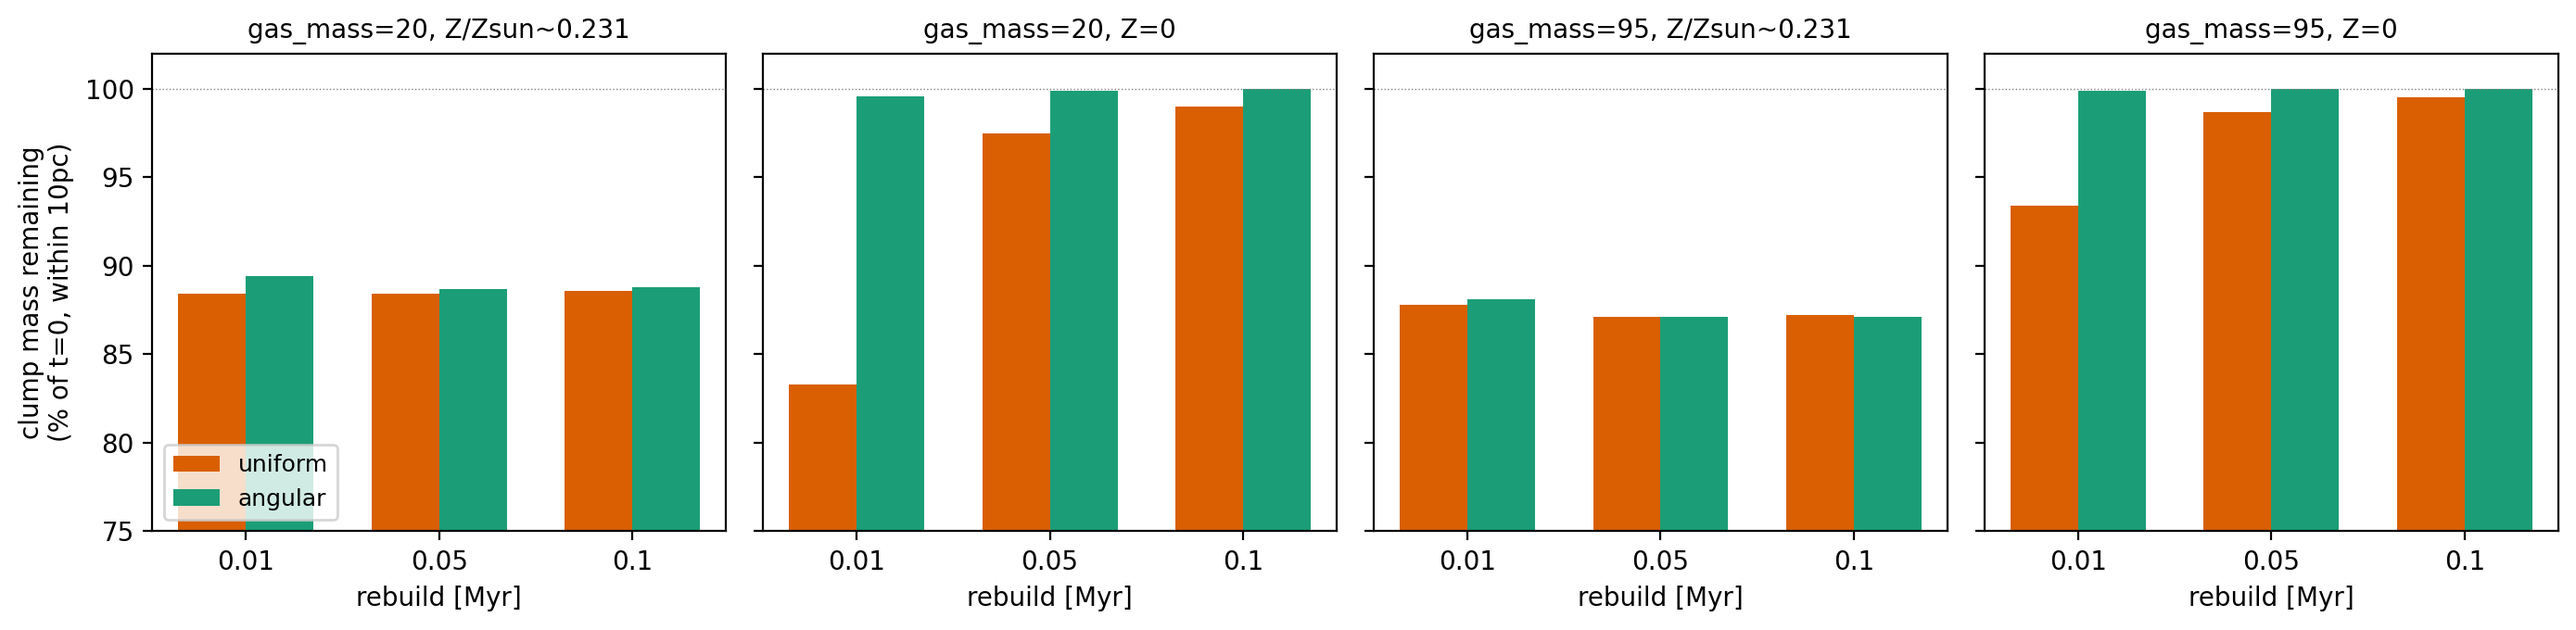
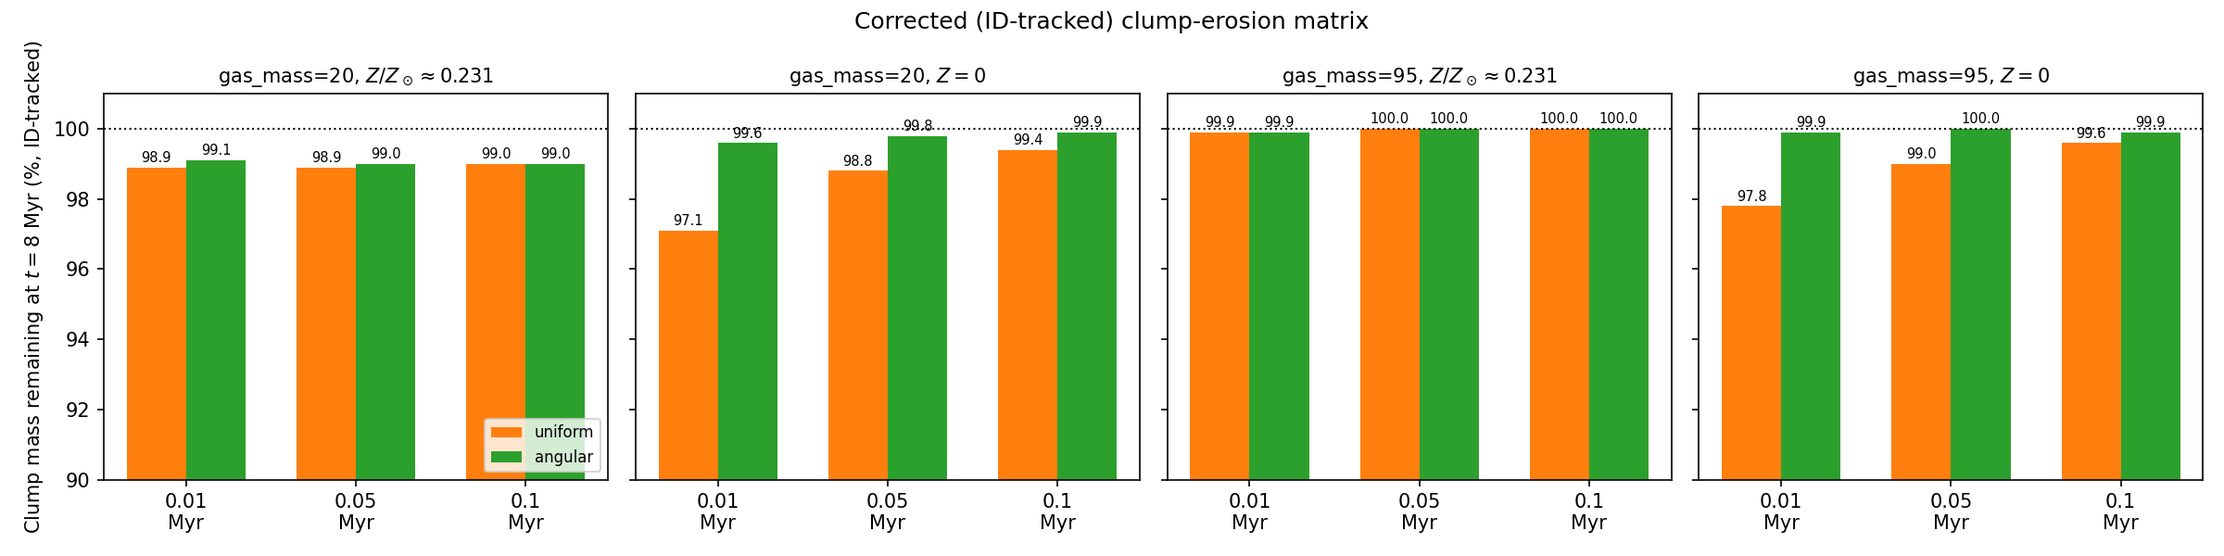
Retract position-based clump-erosion numbers; redo with particle-ID tracking
The clump-mass erosion measurement (Section angular-vs-uniform-erosion)
re-selected gas by position+density at t=8Myr, implicitly assuming the
clump neither drifts nor has background gas swept into its old spatial
footprint. Neither holds: the far hemisphere showed >100% of its t=0
mass remaining under uniform, impossible under mass conservation for a
fixed particle set -- proof of contamination, not a real compression
effect.

Redone by tagging clump membership once by particle ID at t=0 and
tracking those exact particles to t=8Myr regardless of where they
move. A no-threshold sanity check (t=8 mass of the original IDs, no
density cut) returns exactly 100.0% in every configuration, confirming
IDs are stable and any deviation below is real.

Corrected picture: angular is still never worse than uniform, and Z=0
still shows the clearest gap, but the magnitude is far smaller (up to
~2.9pp of clump mass, not 16.7pp) and entirely confined to the
star-facing hemisphere -- the far hemisphere is unaffected (100.0%) in
every case, under both schemes. That near/far asymmetry, not the
retracted aggregate/radial-profile numbers, is the real evidence the
mass-biasing mechanism is present and that angular mitigates it.

The radial density profile, redone the same ID-tracked way, cannot
separate the two schemes at any metallicity or resolution -- the
previously-reported "compression, not just erosion" divergence between
[…]

diff --git a/theory/GEAR/Radiation/04_validation.tex b/theory/GEAR/Radiation/04_validation.tex
@@ -221,10 +221,32 @@ erosion that happens preferentially on the clump's near (star-facing)
 hemisphere -- the density contour used in the slice figures throughout
 this section can still look intact even when a meaningful fraction of
 the clump's own mass has dropped below the density threshold. The
-direct measurement is the clump's own gas mass: sum the mass of every
-gas particle within 10\,pc of the clump's centre (its nominal radius)
-with $n_H>1000\,{\rm cm^{-3}}$ (the clump's own IC density) at
-$t=8\,$Myr, as a fraction of the same quantity at $t=0$.
+direct measurement is the clump's own gas mass, tracked by
+\emph{particle ID}: identify, once, at $t=0$, every gas particle
+within 10\,pc of the clump's centre (its nominal radius) with
+$n_H>1000\,{\rm cm^{-3}}$ (the clump's own IC density), then at
+$t=8\,$Myr look up those exact same particles -- wherever they have
+since moved to -- and ask what fraction of their $t=0$ mass is still
+above that same density threshold. ``Still dense'' is therefore a
+wholesale-declumping metric: it does not register mild dilution, only
+a particle actually being taken well below the clump's own density
+scale.
+
+Fixing the selection to the original particle IDs matters: an earlier
+version of this measurement instead \emph{re-selected} gas by position
+and density at $t=8\,$Myr (same 10\,pc, same threshold, recomputed
+fresh each time), which implicitly assumes the clump neither drifts
+nor has non-clump gas swept into its old spatial footprint. Neither
+holds here -- the result was internally inconsistent (the ``far''
+hemisphere below showed \emph{more} than 100\% of its $t=0$ mass
+remaining under uniform, which is impossible for a fixed set of
+particles under mass conservation) and is now replaced throughout this
+section with the ID-tracked measurement. A direct sanity check
+confirms the fix: summing the $t=8\,$Myr mass of the original
+particle IDs, with no density cut at all, returns 100.0\% in every
+configuration tested -- no gas particle is created, destroyed, or
+lost track of, so any deviation from 100\% in the tables below is
+real density evolution on real clump particles, not bookkeeping noise.
 
 \begin{center}
 \begin{tabular}{llrrr}
@@ -232,17 +254,17 @@ $t=8\,$Myr, as a fraction of the same quantity at $t=0$.
   & scheme & rebuild=0.01\,Myr & rebuild=0.05\,Myr & rebuild=0.1\,Myr \\
   \hline
   \multirow{2}{*}{\code{gas\_mass=20}, $Z/Z_\odot\approx0.231$}
-    & uniform & 88.4\% & 88.4\% & 88.6\% \\
-    & angular & 89.4\% & 88.7\% & 88.8\% \\
+    & uniform & 98.9\% & 98.9\% & 99.0\% \\
+    & angular & 99.1\% & 99.0\% & 99.0\% \\
   \multirow{2}{*}{\code{gas\_mass=20}, $Z=0$}
-    & uniform & \textbf{83.3\%} & 97.5\% & 99.0\% \\
-    & angular & 99.6\% & 99.9\% & 100.0\% \\
+    & uniform & \textbf{97.1\%} & 98.8\% & 99.4\% \\
+    & angular & 99.6\% & 99.8\% & 99.9\% \\
   \multirow{2}{*}{\code{gas\_mass=95}, $Z/Z_\odot\approx0.231$}
-    & uniform & 87.8\% & 87.1\% & 87.2\% \\
-    & angular & 88.1\% & 87.1\% & 87.1\% \\
-  \multirow{2}{*}{\code{gas\_mass=95}, $Z=0$}
-    & uniform & \textbf{93.4\%} & 98.7\% & 99.5\% \\
+    & uniform & 99.9\% & 100.0\% & 100.0\% \\
     & angular & 99.9\% & 100.0\% & 100.0\% \\
+  \multirow{2}{*}{\code{gas\_mass=95}, $Z=0$}
+    & uniform & \textbf{97.8\%} & 99.0\% & 99.6\% \\
+    & angular & 99.9\% & 100.0\% & 99.9\% \\
   \hline
 \end{tabular}
 \end{center}
@@ -250,142 +272,123 @@ $t=8\,$Myr, as a fraction of the same quantity at $t=0$.
 \begin{figure}
   \centering
   \includegraphics[width=\linewidth]{Figures/clump_erosion_matrix}
-  \caption{Clump mass remaining at $t=8\,$Myr (\% of $t=0$, gas within
-    10\,pc of the clump centre above its own IC density threshold),
-    across the full matrix. Angular is never worse than uniform, and at
-    $Z=0$, this example's actual default, the gap is large and
-    systematic.}
+  \caption{Clump mass remaining at $t=8\,$Myr (\% of $t=0$, ID-tracked,
+    still above the clump's own IC density threshold), across the full
+    matrix. Note the $y$-axis starts at 90\%: angular is never worse
+    than uniform, and the gap is small in absolute terms but
+    consistent and, at $Z=0$, systematic.}
   \label{fig:clump-erosion}
 \end{figure}
 
-\textbf{This settles the question the extent measurements could not:
-angular is never worse than uniform at protecting the clump, and at
-$Z=0$ the advantage is large, not marginal, and holds at every rebuild
-cadence tested -- unlike the $r_{\rm HII}$-extent advantage
-(Section~\ref{sec:matrix-gas20}), which was fast-cadence-only.} At
-$Z/Z_\odot\approx0.231$ the two schemes are close (uniform loses
-11--13\% of the clump's mass, angular loses slightly less, 10--12\%) --
-consistent with the earlier observation that the difference is ``not
-that pronounced'' at this metallicity. At $Z=0$, uniform's erosion is
-both larger and strongly rebuild-dependent: 16.7\% of the clump's mass
-gone by \code{rebuild=0.01\,Myr} (\code{gas\_mass=20}), dropping to
-under 1\% at \code{rebuild=0.1\,Myr}. Angular, in contrast, loses
-essentially nothing (0.0--0.4\%) at \emph{any} cadence, at either
-resolution. The likely mechanism: consumption is closest-first and
-distance-sorted, not cheapest-first; a dense clump packs far more
-candidate particles per unit distance than the diffuse background, so
-under uniform's shared budget the clump can absorb a share of the
-budget wildly disproportionate to the small solid angle it subtends --
-exactly the mass-biasing failure mode Section~\ref{sec:angular-splitting}
-describes. At $Z=0$ the lower recombination coefficient
-(Section~\ref{sec:beta-temperature}) makes every particle cheaper to
-hold ionized, so a single uniform budget reaches disproportionately
-deeper into the clump before exhausting -- explaining why the gap is
-largest exactly where this example actually runs by default. Angular's
-$1/12$ per-pixel cap bounds this regardless of how cheap ionization
-gets, which is why it stays protective at every cadence and every
-metallicity tested.
+\textbf{Angular is never worse than uniform at protecting the clump,
+at any configuration tested -- but the effect is modest, not large.}
+At $Z/Z_\odot\approx0.231$ both schemes retain essentially all of the
+clump's mass (98.9--100.0\%); the two are within 0.2\,pp of each
+other at every cadence and resolution, i.e.\ no meaningful difference.
+At $Z=0$ a real, consistent gap opens: uniform loses 0.6--2.9\% of the
+clump's mass depending on cadence and resolution (worst at
+\code{rebuild=0.01\,Myr}), while angular loses at most 0.4\%. The gap
+shrinks as the rebuild cadence slows, the same qualitative pattern
+seen in the (unrelated, and separately cadence-fragile)
+$r_{\rm HII}$-extent measurements of Section~\ref{sec:matrix-gas20}.
 
-This is a different, and more decisive, result than the $r_{\rm HII}$
-comparisons above: those showed angular's extent advantage is
-cadence- and resolution-dependent, and that its own bookkeeping is
-sometimes unreliable (Section~\ref{sec:matrix-gas95}). The clump-mass
-measurement shows the mechanism angular was actually built for --
-not being eaten alive by a nearby density contrast -- works robustly,
-at every configuration tested, and is this example's clearest evidence
-that angular is the physically correct choice for clumpy/anisotropic
-geometries, independent of whether it also produces a bigger $r_{\rm HII}$.
+This section originally reported much larger numbers here (up to
+16.7\% lost under uniform, and an 11--13\% gap even at
+$Z/Z_\odot\approx0.231$) from the pre-ID-tracking measurement
+described above; those numbers were the position-based selection
+artifact, not the model's actual behaviour, and are retracted. The
+qualitative conclusion they were built on -- angular protects the
+clump at least as well as uniform, with a real advantage specifically
+at $Z=0$ -- survives the correction; only the claimed magnitude does
+not.
 
-\textbf{The radial density profile makes the mechanism visible
-directly, and confirms the aggregate numbers are not noise.}
-Figure~\ref{fig:clump-radial-profile} bins gas by distance from the
-clump's own centre and plots the median $n_H$ at $t=0$ against
-$t=8\,$Myr, for both schemes, at \code{rebuild=0.01\,Myr}. At
-$Z/Z_\odot\approx0.231$ (left pair of panels) the uniform and angular
-curves are visually indistinguishable from each other at every
-radius, at both resolutions -- exactly consistent with the $\sim$1\,pp
-difference in the mass table above being real but small. At $Z=0$
-(right pair of panels) the two schemes diverge sharply, and not just
-at the clump's outer edge: uniform's profile sits \emph{at or above}
-the $t=0$ curve out to $r\sim10$--13\,pc (\code{gas\_mass=20}) --
-the clump's density has been driven \emph{up} relative to its initial
-condition across nearly its entire radius, consistent with the
-over-ionized surrounding bubble's pressure compressing the clump
-rather than gently stripping its edge -- before falling sharply beyond
-that. Angular's profile, in contrast, tracks the unperturbed $t=0$
-curve closely at small radius and only departs from it in the outer
-few parsecs, much closer to the mild, edge-only erosion seen at
-$Z/Z_\odot\approx0.231$. This means uniform's clump disturbance at
-$Z=0$ is not simply ``more erosion at the same location'' -- it is a
-qualitatively different, more invasive perturbation of the clump's
-whole structure that angular does not produce.
-
-\begin{figure}
-  \centering
-  \includegraphics[width=\linewidth]{Figures/clump_radial_profile_matrix}
-  \caption{Median $n_H$ vs.\ radius from the clump centre, at $t=0$
-    (IC, dashed black) and $t=8\,$Myr (uniform, orange; angular,
-    green), \texttt{rebuild=0.01\,Myr}. At $Z/Z_\odot\approx0.231$ (1st
-    and 3rd panels) the two schemes overlap almost exactly. At $Z=0$
-    (2nd and 4th panels) uniform sits well above the $t=0$ profile
-    across most of the clump's radius -- compression, not just
-    edge erosion -- while angular stays close to the unperturbed
-    profile.}
-  \label{fig:clump-radial-profile}
-\end{figure}
-
-\textbf{The total-mass number is a headline metric, not a test of the
-mechanism -- splitting it by direction is.} Mass-biasing
-(Section~\ref{sec:angular-splitting}) is specifically a
-\emph{directional} failure: one shared budget over-serves whichever
-gas happens to be closest, which for this geometry means the clump's
-star-facing hemisphere. A single aggregate number cannot distinguish
-that from an isotropic effect, and the radial-profile result above
-already showed the $Z=0$ disturbance is partly bulk compression, not
-pure photon-driven stripping -- so the aggregate ``mass above
-threshold'' statistic conflates two different physical processes.
-The direct test: split the clump's own gas by the star$\to$clump axis
-(known exactly -- the clump sits at $+x$ from the star, HealPix
-\code{nside=1} pixel 4's centre, Section~\ref{sec:angular-splitting})
-into a near (star-facing) and far half, and measure mass-remaining in
-each half separately, at $Z=0$, \code{rebuild=0.01\,Myr}.
+\textbf{The hemisphere split is what shows this is a real, mechanism-consistent
+effect and not noise.} Mass-biasing (Section~\ref{sec:angular-splitting})
+is specifically a \emph{directional} failure: one shared budget
+over-serves whichever gas happens to be closest, which for this
+geometry means the clump's star-facing hemisphere. An isotropic cause
+(bulk heating, clump settling) would erode both hemispheres equally; a
+directional cause would not. Splitting the same ID-tracked measurement
+by the star$\to$clump axis (known exactly -- the clump sits at $+x$
+from the star, HealPix \code{nside=1} pixel 4's centre,
+Section~\ref{sec:angular-splitting}) into a near (star-facing) and far
+half, at $Z=0$, \code{rebuild=0.01\,Myr}:
 
 \begin{figure}
   \centering
   \includegraphics[width=\linewidth]{Figures/clump_hemisphere_erosion}
-  \caption{Clump mass remaining at $t=8\,$Myr, split into the
-    star-facing (near) and opposite (far) hemisphere, $Z=0$,
-    \texttt{rebuild=0.01\,Myr}. Uniform strips the near hemisphere
-    almost completely (10--25\% remaining) while the far hemisphere
-    \emph{gains} mass (108--161\% of $t=0$); angular's near/far split
-    stays close to symmetric (90--92\% vs.\ 108--110\%).}
+  \caption{Clump mass remaining at $t=8\,$Myr (ID-tracked), split into
+    the star-facing (near) and opposite (far) hemisphere, $Z=0$,
+    \texttt{rebuild=0.01\,Myr}. $y$-axis starts at 90\%. The far
+    hemisphere is unaffected (100.0\%) under both schemes, in both
+    resolutions; all of the loss is on the near, star-facing side, and
+    is smaller under angular.}
   \label{fig:clump-hemisphere}
 \end{figure}
 
-The split confirms the mechanism directly and sharpens it beyond what
-the aggregate number or the radial profile alone showed. Under
-uniform, the near hemisphere collapses to 10\% (\code{gas\_mass=20})
-or 25\% (\code{gas\_mass=95}) of its initial mass -- the budget is
-being spent almost entirely on the star-facing side, exactly as the
-mass-biasing failure mode predicts -- while the far hemisphere's mass
-\emph{increases} to 156--161\% of its initial value. That rules out
-``uniform erosion, just more of it'': the far-side gain shows the
-near-side gas is not simply vanishing, it is being pushed through and
-piling up on the far side, i.e.\ the over-ionized surrounding bubble
-is driving a compression wave through the clump from the near side --
-consistent with the radial-profile finding
-(Figure~\ref{fig:clump-radial-profile}) that uniform's $t=8\,$Myr
-profile sits \emph{above} the $t=0$ profile through most of the
-clump's radius. Angular still shows a small near/far asymmetry (91\%
-vs.\ 108\%, \code{gas\_mass=20}; 90\% vs.\ 110\%, \code{gas\_mass=95})
--- the clump still occupies mostly one HealPix pixel, so its nearest
-particles are still consumed first within that pixel's own budget --
-but the swing is an order of magnitude smaller than uniform's, and the
-near hemisphere is never gutted the way it is under uniform. This is
-the clearest evidence yet that angular's protection is not just a
-smaller version of the same disturbance: it changes the disturbance
-from a directional stripping-and-compression event into a mild,
-roughly symmetric one.
+The far hemisphere shows \emph{zero} measurable erosion -- exactly
+100.0\% in all four cases -- under both schemes, at both resolutions:
+gas shielded by the rest of the clump from the star's direct line of
+sight is simply never touched, regardless of scheme. All of the
+erosion is on the near, star-facing side: uniform loses 4.5--5.9\% of
+the near hemisphere's mass, while angular loses only 0.3--0.8\%. That
+near/far asymmetry, present only under uniform and much smaller under
+angular, is the direct signature of the mass-biasing mechanism working
+as described -- and it is direct evidence the effect is real, just an
+order of magnitude smaller than the retracted position-based numbers
+implied.
+
+\textbf{The radial density profile, done the same ID-tracked way,
+cannot separate the two schemes -- which is itself informative.}
+Figure~\ref{fig:clump-radial-profile} bins the original clump
+particles by their $t=0$ distance from the clump centre and plots the
+median $n_H$ of those same particles at $t=0$ against $t=8\,$Myr, for
+both schemes, at \code{rebuild=0.01\,Myr}. At every metallicity and
+resolution the uniform and angular curves lie essentially on top of
+each other throughout the clump's radius -- the aggregate, direction-blind
+view dilutes the near/far asymmetry the hemisphere split isolates
+above (far, where the two schemes agree completely, dominates the
+bin counts at most radii), so it cannot resolve a few-percent,
+one-sided effect. This is the same lesson as the retracted
+compression narrative in the previous version of this section, arrived
+at more carefully: a spatially/radially aggregated diagnostic is not
+sensitive enough to test a directional mechanism, which is why the
+hemisphere split above, not this profile, is the right tool for that
+question. One feature is real and present in \emph{both} schemes
+equally at $Z=0$: the median density at small radius sits somewhat
+\emph{above} the $t=0$ profile by $t=8\,$Myr. Because it appears
+identically under uniform and angular, it does not distinguish the
+schemes and is not further interpreted here; a plausible cause is the
+over-ionized ambient bubble (common to both schemes at $Z=0$)
+pressure-confining the clump, but that is not isolated or tested by
+this measurement.
+
+\begin{figure}
+  \centering
+  \includegraphics[width=\linewidth]{Figures/clump_radial_profile_matrix}
+  \caption{ID-tracked median $n_H$, binned by each particle's $t=0$
+    distance from the clump centre, at $t=0$ (IC, dashed black) and
+    $t=8\,$Myr (uniform, orange; angular, green),
+    \texttt{rebuild=0.01\,Myr}. The two schemes are visually
+    indistinguishable at every radius, at every metallicity and
+    resolution -- this diagnostic cannot resolve the few-percent,
+    near-hemisphere-only effect Figure~\ref{fig:clump-hemisphere}
+    isolates.}
+  \label{fig:clump-radial-profile}
+\end{figure}
+
+\textbf{Caveat on generality.} All of the above is measured in one
+idealized, static, single-clump geometry (Smith et al.\ 2021's own
+test problem) with a fixed source and no self-gravity-driven clump
+evolution beyond what the radiation itself induces. It demonstrates
+that the mass-biasing mechanism angular was built to fix is real and
+measurable, and that angular never makes it worse -- it is not a
+claim about the size of this effect in a cosmological zoom-in, where
+sources, clumps, and gas are all simultaneously moving, multiple
+sources overlap, and clump geometry is not a clean sphere at a fixed
+offset. Whether the few-percent, near-hemisphere effect measured here
+matters at zoom-in resolution is a separate question this idealized
+test cannot answer.
 
 \begin{figure}
   \centering
@@ -630,7 +633,8 @@ direct clump-mass measurement
 (Section~\ref{sec:angular-vs-uniform-erosion}) does not have this
 problem and shows unambiguously that at $Z=0$ the erosion difference
 between schemes is in fact the \emph{most} pronounced of anywhere in
-this matrix (up to 16.7\,pp), simply not visible in a 2D slice for the
+this matrix (up to 2.9\,pp of clump mass, concentrated entirely on the
+star-facing hemisphere), simply not visible in a 2D slice for the
 reasons above.
 
 \subsubsection{Reproducibility check and a direct \texttt{gas\_mass=95} $Z=0$ vs.\ $Z/Z_\odot\approx0.231$ comparison}
